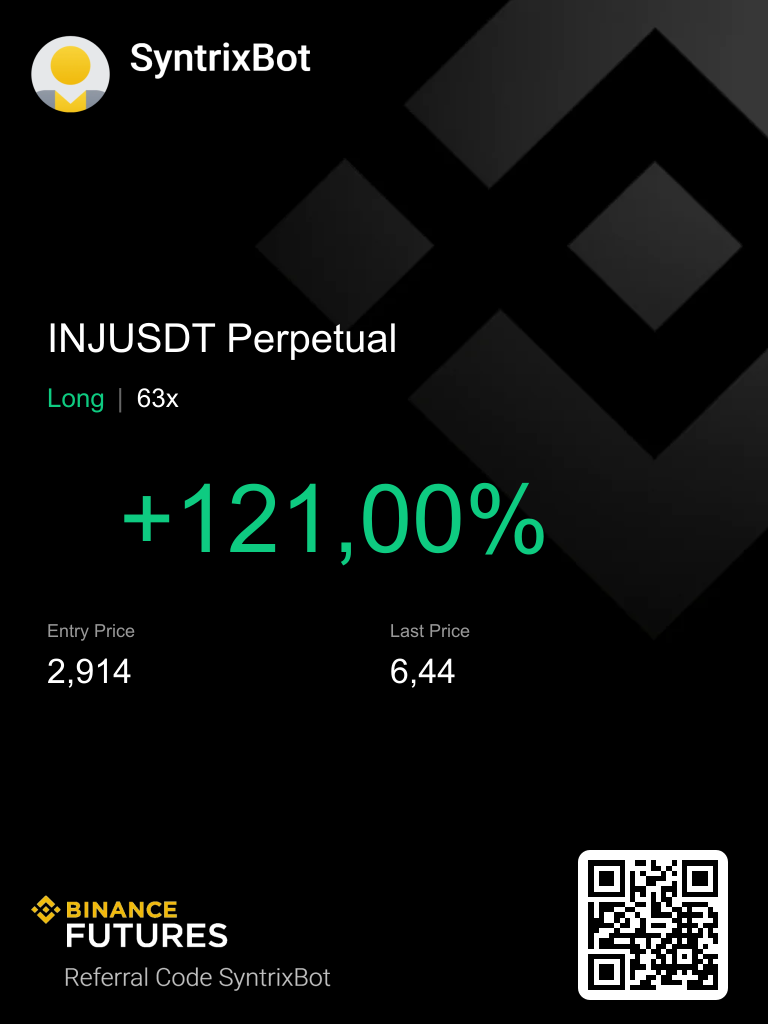
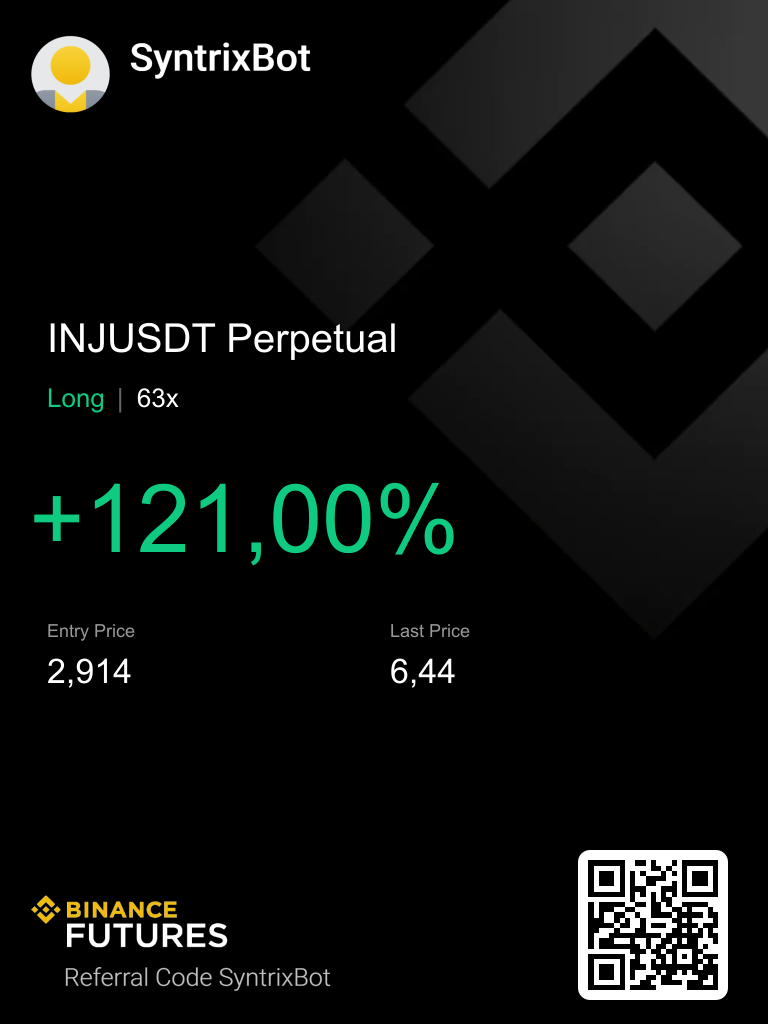
FIx Card generation

Changed region(s): [[0.125, 0.4688, 0.7188, 0.5625], [0.0312, 0.4688, 0.0938, 0.5312]]

diff --git a/telegram-bot/src/cardGenerator.ts b/telegram-bot/src/cardGenerator.ts
@@ -236,7 +236,7 @@ function drawProfit(ctx: CanvasRenderingContext2D, profit: number, layout: any, 
   ctx.font = 'bold 95px Arial'
   ctx.textAlign = 'center'
   ctx.textBaseline = 'top'
-  ctx.fillText(formattedProfit, width / 2 - 50, layout.profitY)
+  ctx.fillText(formattedProfit, width / 2 - 140, layout.profitY)
 }
 
 /**
